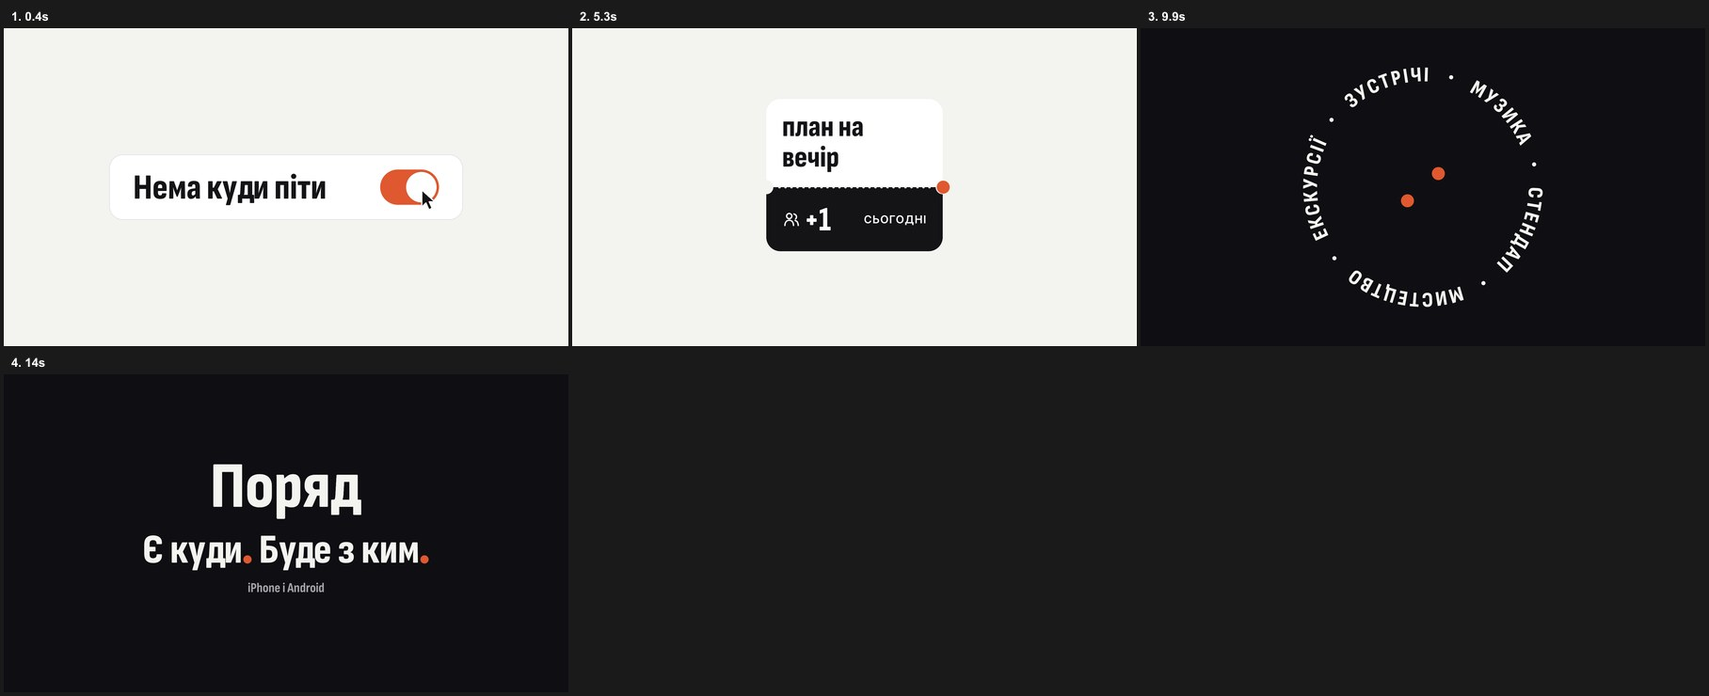
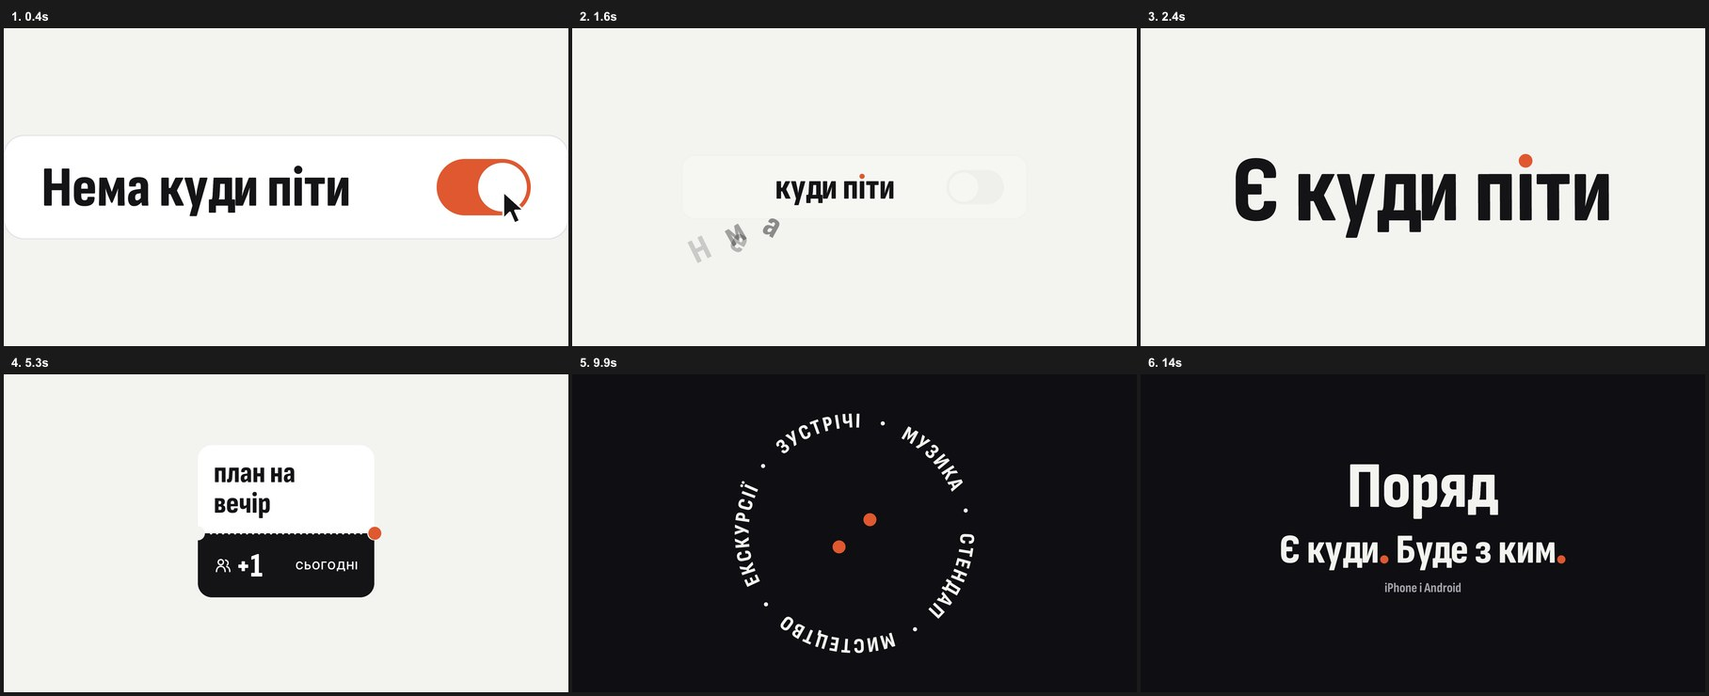
feat(marketing): D1 «крапка» — тумблер впритул, «Нема» падає, «Є куди піти»

diff --git a/marketing/hyperframes/d1-dot-16x9/index.html b/marketing/hyperframes/d1-dot-16x9/index.html
@@ -14,6 +14,7 @@
       #root { position: relative; width: 100%; height: 100%; overflow: hidden; }
       .layer { position: absolute; inset: 0; width: 100%; height: 100%; }
       svg.layer { font-family: "Sofia Sans Condensed", sans-serif; }
+      #stage { transform-origin: 960px 540px; }
     </style>
   </head>
   <body>
@@ -46,9 +47,9 @@
           </g>
           <g data-hf-id="hf-gyi6" id="tprint" data-layout-allow-overlap="">
             <!-- PoruchIcons.social (two figures, grid 24, stroke 1.75): the seat is for a person, «+1». -->
-            <g id="tglyph" fill="none" stroke="#ffffff" stroke-width="1.75" stroke-linecap="round" stroke-linejoin="round">
-              <circle cx="9" cy="8" r="3.3" />
-              <path d="M3.5 20C3.5 15.6 6 13.3 9 13.3C12 13.3 14.5 15.6 14.5 20M15 5.3C17 5.8 18.3 7.3 18.3 9C18.3 10.2 17.8 11.1 17 11.7M16.5 13.6C19 14.2 20.5 16.5 20.5 20" />
+            <g data-hf-id="hf-bks4" id="tglyph" fill="none" stroke="#ffffff" stroke-width="1.75" stroke-linecap="round" stroke-linejoin="round">
+              <circle data-hf-id="hf-6949" cx="9" cy="8" r="3.3" />
+              <path data-hf-id="hf-cbzt" d="M3.5 20C3.5 15.6 6 13.3 9 13.3C12 13.3 14.5 15.6 14.5 20M15 5.3C17 5.8 18.3 7.3 18.3 9C18.3 10.2 17.8 11.1 17 11.7M16.5 13.6C19 14.2 20.5 16.5 20.5 20" />
             </g>
             <text data-hf-id="hf-1v7g" id="tplus" font-family="Sofia Sans Extra Condensed" font-weight="800" font-size="116" fill="#ffffff">+1</text>
             <text data-hf-id="hf-gh33" id="tday" font-family="Inter" font-weight="600" font-size="37" letter-spacing="2" fill="#ffffff" text-anchor="end">СЬОГОДНІ</text>
@@ -57,8 +58,8 @@
         <g data-hf-id="hf-h2f5" id="ring" data-layout-allow-overlap="" />
         <ellipse data-hf-id="hf-fdml" id="dot" data-layout-allow-overflow="" fill="#e0582f" />
         <!-- The «+1»: a second dot that buds off the first and stays beside it until the loop folds it back. -->
-        <path id="neck" fill="#e0582f" />
-        <circle id="dot2" fill="#e0582f" />
+        <path data-hf-id="hf-5kvx" id="neck" fill="#e0582f" />
+        <circle data-hf-id="hf-yp9a" id="dot2" fill="#e0582f" />
         <rect data-hf-id="hf-8cbt" id="slab" fill="#0f0f13" />
         <g data-hf-id="hf-6g6l" id="cursor">
           <path data-hf-id="hf-79rg" d="M0 0 L0 58 L14 44 L24 67 L35 62 L25 40 L44 40 Z" fill="#141417" stroke="#ffffff" stroke-width="4" stroke-linejoin="round" />
@@ -69,6 +70,7 @@
       <audio data-hf-id="hf-68fv" id="music" src="assets/audio/music.m4a" data-start="0" data-media-start="10.245" data-duration="16.364" data-track-index="10" data-automation="{&quot;version&quot;:1,&quot;lanes&quot;:[{&quot;target&quot;:&quot;volume&quot;,&quot;points&quot;:[{&quot;t&quot;:0,&quot;v&quot;:0},{&quot;t&quot;:0.03,&quot;v&quot;:0.6},{&quot;t&quot;:16.33,&quot;v&quot;:0.6},{&quot;t&quot;:16.364,&quot;v&quot;:0}]}]}"></audio>
       <audio data-hf-id="hf-j7th" id="sfx-click" src="assets/audio/ui_tick.wav" data-start="0.682" data-duration="0.08" data-track-index="11" data-volume="0.5"></audio>
       <audio data-hf-id="hf-mkml" id="sfx-land-i" src="assets/audio/pin_pop_1.wav" data-start="1.364" data-duration="0.24" data-track-index="12" data-volume="0.35"></audio>
+      <audio id="sfx-land-ye" src="assets/audio/pin_pop_2.wav" data-start="1.78" data-duration="0.35" data-track-index="14" data-volume="0.3"></audio>
       <audio data-hf-id="hf-siu1" id="sfx-jump" src="assets/audio/whoosh.wav" data-start="2.73" data-duration="0.26" data-track-index="13" data-volume="0.18"></audio>
       <audio data-hf-id="hf-nhzv" id="sfx-land-graph" src="assets/audio/pin_pop_2.wav" data-start="3.409" data-duration="0.35" data-track-index="12" data-volume="0.4"></audio>
       <audio data-hf-id="hf-kn8p" id="sfx-print" src="assets/audio/ui_tick.wav" data-start="4.6" data-duration="0.08" data-track-index="11" data-volume="0.3"></audio>
@@ -77,15 +79,15 @@
       <audio data-hf-id="hf-oo12" id="sfx-square" src="assets/audio/ui_tick.wav" data-start="6.818" data-duration="0.08" data-track-index="11" data-volume="0.35"></audio>
       <audio data-hf-id="hf-tdgw" id="sfx-pill" src="assets/audio/pin_pop_1.wav" data-start="7.5" data-duration="0.24" data-track-index="12" data-volume="0.3"></audio>
       <audio data-hf-id="hf-gdha" id="sfx-contract" src="assets/audio/ui_tick.wav" data-start="8.182" data-duration="0.08" data-track-index="11" data-volume="0.3"></audio>
-      <audio id="sfx-split" src="assets/audio/pin_pop_1.wav" data-start="8.33" data-duration="0.24" data-track-index="14" data-volume="0.4"></audio>
+      <audio data-hf-id="hf-98am" id="sfx-split" src="assets/audio/pin_pop_1.wav" data-start="8.33" data-duration="0.24" data-track-index="14" data-volume="0.4"></audio>
       <audio data-hf-id="hf-8y41" id="sfx-ring" src="assets/audio/whoosh.wav" data-start="8.5" data-duration="0.26" data-track-index="13" data-volume="0.22"></audio>
       <audio data-hf-id="hf-b82h" id="sfx-step-1" src="assets/audio/ui_tick.wav" data-start="9.545" data-duration="0.08" data-track-index="11" data-volume="0.2"></audio>
       <audio data-hf-id="hf-uiyb" id="sfx-step-2" src="assets/audio/ui_tick.wav" data-start="10.227" data-duration="0.08" data-track-index="11" data-volume="0.2"></audio>
       <audio data-hf-id="hf-zp6x" id="sfx-scatter" src="assets/audio/whoosh.wav" data-start="10.75" data-duration="0.26" data-track-index="13" data-volume="0.22"></audio>
       <audio data-hf-id="hf-y1on" id="sfx-title" src="assets/audio/pin_pop_2.wav" data-start="12.86" data-duration="0.35" data-track-index="12" data-volume="0.4"></audio>
-      <audio id="sfx-title-2" src="assets/audio/pin_pop_1.wav" data-start="13.1" data-duration="0.24" data-track-index="14" data-volume="0.35"></audio>
+      <audio data-hf-id="hf-likk" id="sfx-title-2" src="assets/audio/pin_pop_1.wav" data-start="13.1" data-duration="0.24" data-track-index="14" data-volume="0.35"></audio>
       <audio data-hf-id="hf-ppq9" id="sfx-return" src="assets/audio/whoosh.wav" data-start="15.0" data-duration="0.26" data-track-index="13" data-volume="0.3"></audio>
-      <audio id="sfx-merge" src="assets/audio/ui_tick.wav" data-start="15.38" data-duration="0.08" data-track-index="11" data-volume="0.3"></audio>
+      <audio data-hf-id="hf-b1mo" id="sfx-merge" src="assets/audio/ui_tick.wav" data-start="15.38" data-duration="0.08" data-track-index="11" data-volume="0.3"></audio>
       <audio data-hf-id="hf-19t9" id="sfx-pour" src="assets/audio/pin_pop_1.wav" data-start="16.12" data-duration="0.24" data-track-index="12" data-volume="0.3"></audio>
     </div>
     <script>
@@ -152,18 +154,26 @@
       const L = {}; // layout, filled in build()
 
       function build() {
-        // Scene 1: settings row «Нема куди піти»; the last four letters become the hero «піти».
+        // Scene 1: settings row «Нема куди піти». On the click «Нема» falls out, «Є» drops into its place and
+        // «Є куди піти» becomes the hero, the dot riding its «і».
         L.label = typeset($("label"), "Нема куди пıти", 120, 800, INK);
         L.labelBase = 540 + measure("Н", 120).actualBoundingBoxAscent / 2;
         L.labelX = 440;
-        L.out = L.label.letters.slice(0, 8);
-        L.hero = L.label.letters.slice(8);
-        L.i = L.hero[1];
+        L.out = L.label.letters.slice(0, 4);
+        L.ye = typeset($("label"), "Є", 120, 800, INK).letters[0];
+        L.ye.x = L.label.letters[4].x - measure("Є ", 120).width; // its slot in the row, left of «куди»
+        L.hero = [L.ye, ...L.label.letters.slice(4)];
+        L.i = L.label.letters[9];
+        L.iK = L.hero.indexOf(L.i);
         L.tit = tittle(120);
-        L.heroScale = 400 / 120;
-        L.heroBase = 540 + measure("і", 400).actualBoundingBoxAscent / 2;
-        const heroX = 960 - measure("пıти", 400).width / 2;
-        L.hero.forEach((l) => (l.hx = heroX + (l.x - L.hero[0].x) * L.heroScale));
+        const phrase = "Є куди пıти", heroW = 1300;
+        L.heroScale = heroW / measure(phrase, 120).width;
+        L.heroBase = 540 + measure("і", 120 * L.heroScale).actualBoundingBoxAscent / 2;
+        let j = 0;
+        L.hero.forEach((l) => {
+          while (phrase[j] === " ") j++;
+          l.hx = 960 - heroW / 2 + measure(phrase.slice(0, j++), 120).width * L.heroScale;
+        });
 
         // Ticket: x 660–1260, perforation (the tear line) on y=540 between the notches. The dot runs along it
         // from the left notch to the right one; the overshoot peaks on b6 and settles into the notch by b7.5.
@@ -232,16 +242,22 @@
         const t0 = 15.86 + i * 0.016, p = spring(u - t0, 0.6, 0.13);
         return [L.labelX + l.x, L.labelBase - 70 * (1 - p), 0, 1, clamp((u - t0) / 0.1)];
       }
-      // «піти» from label size to hero size, then dropping out after the dot leaves.
+      // «Є куди піти» from label size to hero size, then dropping out after the dot leaves.
+      // «Є» drops in from above into the slot «Нема» left, once those letters are already falling away.
       function heroLetter(l, k, t) {
-        const p = spring(t - (b(2) + 0.3 + k * 0.035), 0.6, 0.3);
+        const p = spring(t - (b(2) + 0.3 + k * 0.004), 0.6, 0.3), s = lerp(1, L.heroScale, p);
         let x = lerp(L.labelX + l.x, l.hx, p), y = lerp(L.labelBase, L.heroBase, p);
-        let rot = -10 * Math.sin(Math.PI * clamp(p)), o = 1;
+        let rot = -6 * Math.sin(Math.PI * clamp(p)), o = 1;
+        if (l === L.ye) {
+          const q = spring(t - (b(2) + 0.26), 0.5, 0.2);
+          y -= 160 * s * (1 - q);
+          o = clamp((t - (b(2) + 0.26)) / 0.08);
+        }
         const q = prog(t, b(4) + 0.02 + k * 0.03, b(4) + 0.4 + k * 0.03);
         y += 560 * ein(q);
         rot += (k % 2 ? 14 : -14) * q;
-        o = 1 - prog(q, 0.5, 1);
-        return [x, y, rot, lerp(1, L.heroScale, p), o];
+        o *= 1 - prog(q, 0.5, 1);
+        return [x, y, rot, s, o];
       }
       function iTittle(pose) {
         const [x, y, rot, s] = pose;
@@ -263,7 +279,7 @@
           stretch(0.3 * Math.sin(Math.PI * u), u < 0.5 ? -60 : 60);
         } else if (t < b(4)) {
           // Riding the «і» while the word becomes the hero; squash on landing, crouch before the jump.
-          [d.x, d.y, d.r] = iTittle(heroLetter(L.i, 1, t));
+          [d.x, d.y, d.r] = iTittle(heroLetter(L.i, L.iK, t));
           const w = 0.4 * wobble(t - b(2)), c = 0.28 * Math.sin((Math.PI / 2) * prog(t, b(4) - 0.14, b(4)));
           d.sx = 1 + w + c;
           d.sy = 1 - w - c;
@@ -271,7 +287,7 @@
         } else if (t < b(5)) {
           // Ballistic jump into the ticket's left notch.
           const u = prog(t, b(4), b(5));
-          const [x0, y0, r0] = iTittle(heroLetter(L.i, 1, b(4)));
+          const [x0, y0, r0] = iTittle(heroLetter(L.i, L.iK, b(4)));
           const x1 = L.tk.x0, y1 = 540 + ticketDy(b(5));
           d.x = lerp(x0, x1, u);
           d.y = lerp(y0, y1, u) - 4 * 300 * u * (1 - u);
@@ -360,18 +376,19 @@
 
       function drawLabel(t) {
         const resting = t < b(2) || t >= 15.86, u = t < b(2) ? t + DUR : t;
-        const live = resting || t < b(4) + 0.6;
+        const live = resting || t < b(4) + 0.7;
         show($("label"), live);
         show($("inkdot"), resting);
         if (!live) return;
         L.out.forEach((l, i) => {
           if (resting) return place(l, ...restLetter(l, i, u));
-          // «Нема куди» tip over and fall, one after another.
-          // Done before «піти» starts growing, so outgoing and incoming letters never share the frame.
+          // «Нема» tips over and falls, one letter after another.
+          // Mostly gone before «Є» drops in, so outgoing and incoming letters never share the frame.
           const p = prog(t, b(2) + i * 0.018, b(2) + 0.32 + i * 0.018), dir = i % 2 ? 1 : -1;
           place(l, L.labelX + l.x + dir * 30 * p, L.labelBase + 380 * p * p, dir * (28 + 5 * i) * eio(p), 1, 1 - prog(p, 0.25, 0.85));
         });
-        L.hero.forEach((l, k) => place(l, ...(resting ? restLetter(l, 8 + k, u) : heroLetter(l, k, t))));
+        if (resting) place(L.ye, L.labelX + L.ye.x, L.labelBase, 0, 1, 0); // «Є» is not in the row
+        L.hero.forEach((l, k) => l === L.ye ? resting || place(l, ...heroLetter(l, k, t)) : place(l, ...(resting ? restLetter(l, 3 + k, u) : heroLetter(l, k, t))));
         if (resting) {
           const [cx, cy, r] = iTittle(restLetter(L.i, 9, u));
           attr($("inkdot"), { cx, cy, r, opacity: clamp((u - 15.86 - 9 * 0.016) / 0.1) });
@@ -510,9 +527,14 @@
         attr($("cursor"), { transform: `translate(${x} ${y}) scale(${1 - 0.14 * press})` });
       }
 
+      // Hook: the loop opens tight on the toggle and «Нема куди піти», hard-cuts wide on the click, and
+      // cuts back in when the dot pours into the toggle, so the frames either side of the seam match.
+      const PUNCH = 1.6, PUNCH_OUT = b(1), PUNCH_IN = 16.14;
+
       function seek(t) {
         t = clamp(t, 0, DUR - 1e-6);
         const dot = dotState(t);
+        $("stage").style.transform = t < PUNCH_OUT || t >= PUNCH_IN ? `scale(${PUNCH})` : "";
         $("bg").style.background = t >= b(9) + 0.12 && t < 15.42 ? NIGHT : PAPER;
         drawRow(t);
         drawLabel(t);

diff --git a/marketing/hyperframes/d1-dot-16x9/boards/storyboard.html b/marketing/hyperframes/d1-dot-16x9/boards/storyboard.html
@@ -27,40 +27,54 @@
     <p class="sub">1920×1080, 60 fps, 16.36 с = 24 біти по 0.682 с (88 BPM, Cozy Cafe Chillhop з 10.245 с). Петля: останній кадр = перший.</p>
 
     <div class="grid">
+      <section class="act" style="grid-column:1/-1;font-weight:650;color:#5e5e66">Акт 1: Є куди</section>
       <div class="frame">
         <img src="stills/frame-00-at-0.4s.png" alt="" />
-        <div class="title">01: Тумблер</div>
-        <div class="time">0.0 to 2.7s</div>
-        <p class="words">Курсор їде до помаранчевого тумблера «Нема куди піти». На b1 клік: помаранчевий стягується в крапку, крапка сідає на «і», решта літер падає, «піти» стає героєм.</p>
+        <div class="title">01: Тумблер впритул</div>
+        <div class="time">0.0 to 1.4s</div>
+        <p class="words">Ролик відкривається впритул (1,6×): «Нема куди піти» й увімкнений помаранчевий тумблер, курсор під'їжджає. На клік (b1) жорстка склейка на повний план, помаранчевий стягується в крапку й перескакує на «і».</p>
       </div>
       <div class="frame">
-        <img src="stills/frame-01-at-5.3s.png" alt="" />
-        <div class="title">02: Квиток</div>
+        <img src="stills/frame-01-at-1.6s.png" alt="" />
+        <div class="title">02: «Нема» падає</div>
+        <div class="time">1.4 to 2.0s</div>
+        <p class="words">Тумблер вимкнено, і саме слово «Нема» перекидається й падає, літера за літерою. «куди піти» лишається на місці, крапка вже над «і».</p>
+      </div>
+      <div class="frame">
+        <img src="stills/frame-02-at-2.4s.png" alt="" />
+        <div class="title">03: «Є куди піти»</div>
+        <div class="time">2.0 to 2.7s</div>
+        <p class="words">Згори в звільнене місце падає «Є», і рядок виростає на весь кадр: «Є куди піти», помаранчева крапка над «і». Вимкнув «нема куди» — отримав «є куди». На b3 удар, на b4 крапка відштовхується до квитка, літери падають.</p>
+      </div>
+      <div class="frame">
+        <img src="stills/frame-03-at-5.3s.png" alt="" />
+        <div class="title">04: Квиток</div>
         <div class="time">2.7 to 5.5s</div>
-        <p class="words">Знизу вспливає квиток «Корінця», крапка падає в лівий виріз і біжить по перфорації тією ж пружиною: проскакує за край на b6, сідає в правий виріз. За нею пробиваються дірочки й заливається корінець; на b7 друкується «план на вечір», гліф людей «+1 · СЬОГОДНІ»: місце ще для однієї людини.</p>
+        <p class="words">Без змін. Знизу вспливає квиток «Корінця», крапка падає в лівий виріз і біжить по перфорації тією ж пружиною; на b7 друкується «план на вечір», на корінці гліф людей «+1 · СЬОГОДНІ».</p>
       </div>
+      <section class="act" style="grid-column:1/-1;font-weight:650;color:#5e5e66">Акт 2: Буде з ким</section>
       <div class="frame">
-        <img src="stills/frame-02-at-9.9s.png" alt="" />
-        <div class="title">04: Буде з ким</div>
+        <img src="stills/frame-04-at-9.9s.png" alt="" />
+        <div class="title">05: Буде з ким</div>
         <div class="time">8.9 to 11.6s</div>
-        <p class="words">Після сцени форми (коло → квадрат → пігулка → крапка на чорному) крапка ділиться на дві — це «+1». Пара кружляє одна навколо одної, навколо неї орбіта категорій («куди»); на кожен біт крок. Літери розлітаються в растр, де хвилі від двох крапок перетинаються.</p>
+        <p class="words">Без змін. Після сцени форми крапка ділиться на дві — «+1». Пара кружляє, навколо орбіта категорій; літери розлітаються в растр.</p>
       </div>
       <div class="frame">
-        <img src="stills/frame-03-at-14s.png" alt="" />
-        <div class="title">05: Енд-карта</div>
+        <img src="stills/frame-05-at-14s.png" alt="" />
+        <div class="title">06: Енд-карта</div>
         <div class="time">12.9 to 15.0s</div>
-        <p class="words">Растр росте за краї кадру й перевертається в чорне. Дві крапки сідають як дві крапки слогана: твоя після «Є куди», «+1» після «Буде з ким». У поверненні вони зливаються в одну й іде крізь квиток у тумблер.</p>
+        <p class="words">Без змін. Дві крапки — крапки слогана «Є куди. Буде з ким.»: перша половина тепер відповідає на відкриття ролика. Повернення зливає їх в одну і веде в тумблер, останній кадр знову впритул.</p>
       </div>
     </div>
 
     <h2>Карта бітів</h2>
     <table>
       <tr><th>Біт</th><th>Час, с</th><th>Що відбувається</th></tr>
-      <tr><td class="n">b0</td><td class="n">0.00</td><td>Тумблер увімкнений, курсор під'їжджає (продовження руху з кінця петлі)</td></tr>
-      <tr><td class="n hit">b1 ●</td><td class="n">0.68</td><td><b>Клік.</b> Повзунок пружно вліво, помаранчевий стягується в крапку</td></tr>
-      <tr><td class="n">b2</td><td class="n">1.36</td><td><b>Крапка сідає на «і».</b> «Нема куди» гнуться й падають</td></tr>
-      <tr><td class="n hit">b3 ●</td><td class="n">2.05</td><td>«піти» в центрі, героєм, з перельотом пружини</td></tr>
-      <tr><td class="n">b4</td><td class="n">2.73</td><td>Крапка відштовхується, літери «піти» падають</td></tr>
+      <tr><td class="n">b0</td><td class="n">0.00</td><td>Впритул 1,6×: тумблер увімкнений, курсор під'їжджає (продовження руху з кінця петлі)</td></tr>
+      <tr><td class="n hit">b1 ●</td><td class="n">0.68</td><td><b>Клік</b> і жорстка склейка на повний план. Повзунок пружно вліво, помаранчевий стягується в крапку</td></tr>
+      <tr><td class="n">b2</td><td class="n">1.36</td><td><b>Крапка сідає на «і».</b> «Нема» перекидається й падає; згори в його місце падає «Є»</td></tr>
+      <tr><td class="n hit">b3 ●</td><td class="n">2.05</td><td><b>«Є куди піти»</b> на весь кадр, героєм, з перельотом пружини</td></tr>
+      <tr><td class="n">b4</td><td class="n">2.73</td><td>Крапка відштовхується, літери «Є куди піти» падають</td></tr>
       <tr><td class="n hit">b5 ●</td><td class="n">3.41</td><td><b>Крапка в лівому вирізі квитка</b>, старт пружини по перфорації</td></tr>
       <tr><td class="n">b6</td><td class="n">4.09</td><td><b>Переліт</b> за правий виріз (~17%)</td></tr>
       <tr><td class="n hit">b7 ●</td><td class="n">4.77</td><td>Друк: «план на вечір», на корінці гліф людей «+1 · СЬОГОДНІ»; крапка сідає у виріз до b7.5</td></tr>
@@ -78,7 +92,7 @@
       <tr><td class="n">b20–b21</td><td class="n">13.64–14.32</td><td>Енд-карта тримається (~2 с читання)</td></tr>
       <tr><td class="n">b22</td><td class="n">15.00</td><td>Повернення: дві крапки крізь растр зливаються в одну…</td></tr>
       <tr><td class="n">b22.7</td><td class="n">15.45</td><td>…назад по перфорації, корінець знебарвлюється…</td></tr>
-      <tr><td class="n">b23.3</td><td class="n">15.91</td><td>…у тумблер: розливається в доріжку, курсор під'їжджає</td></tr>
+      <tr><td class="n">b23.3</td><td class="n">15.91</td><td>…у тумблер: розливається в доріжку (16.14 — склейка назад у впритул), курсор під'їжджає</td></tr>
       <tr><td class="n">b24 = b0</td><td class="n">16.36</td><td>Шов петлі</td></tr>
     </table>
     <p class="sub" style="margin-top:12px">● — сильна доля (удар). Звуки: клік, «поп» на приземленнях, свист на пострілі.</p>
